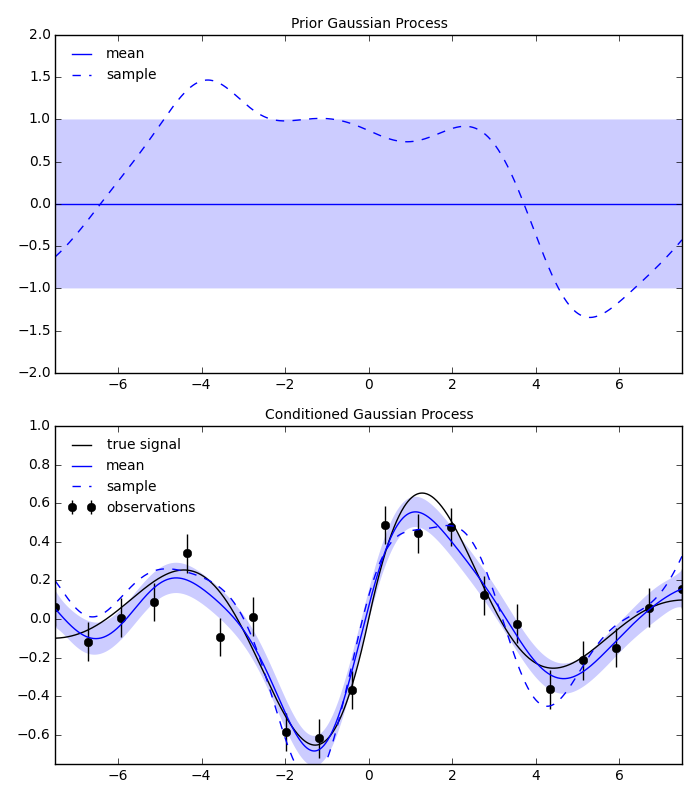
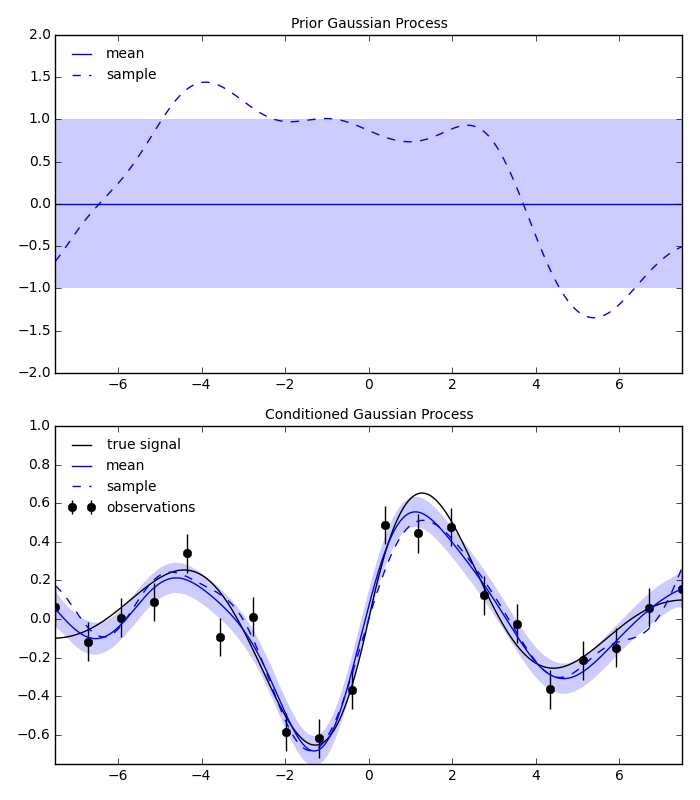
cleaned up gpr demo

diff --git a/docs/scripts/gpr.a.py b/docs/scripts/gpr.a.py
@@ -3,27 +3,24 @@ import matplotlib.pyplot as plt
 import rbf
 np.random.seed(1)
 
-n = 20
-# observation points
-y = np.linspace(-7.5,7.5,n)
-# interpolation points
-x = np.linspace(-7.5,7.5,1000)
-# true signal which we are trying to recover
-u_true = np.exp(-0.3*np.abs(x))*np.sin(x)  
-# observation uncertainty
-sigma = 0.1*np.ones(n) 
+y = np.linspace(-7.5,7.5,20) # observation points
+x = np.linspace(-7.5,7.5,500) # interpolation points
+u_true = np.exp(-0.3*np.abs(x))*np.sin(x)  # true signal
+sigma = 0.1*np.ones(20) # observation uncertainty
 # noisy observations of the signal
 d = np.exp(-0.3*np.abs(y))*np.sin(y) + np.random.normal(0.0,sigma) 
 # form a prior Gaussian process which has a squared exponential basis 
 # function (rbf.basis.ga), 0.0 for the mean, 1.0 for the standard 
 # deviation, and 2.0 for the characteristic length scale.
 gp = rbf.gpr.PriorGaussianProcess(rbf.basis.ga,(1.0,0.0,2.0))
-# draw a sample from the Gaussian process
-sample = gp.draw_sample(x[:,None])
-# find the mean and standard deviation at x
-mean,std = gp(x[:,None]) 
-# plot the mean, standard deviation, and sample from the Gaussian 
-# process
+sample = gp.draw_sample(x[:,None]) # generate random sample
+mean,std = gp(x[:,None]) # find the mean and standard dev. at x
+gp_cond = gp.condition(y[:,None],d,sigma=sigma) # condition with data
+sample_cond = gp_cond.draw_sample(x[:,None]) 
+mean_cond,std_cond = gp_cond(x[:,None])  
+
+## Plotting
+#####################################################################
 fig,axs = plt.subplots(2,1,figsize=(7,8))
 ax = axs[0]
 ax.tick_params(labelsize=10)
@@ -35,25 +32,14 @@ ax.plot(x,sample,'b--',label='sample')
 ax.set_xlim((-7.5,7.5))
 ax.set_ylim((-2.0,2.0))
 ax.legend(loc=2,frameon=False,fontsize=10)
-# Condition the Gaussian process with the observations
-gp = gp.condition(y[:,None],d,sigma=sigma)
-# uncomment the below line to make a new Gausisan process which is the
-# first derivative of *gp* 
-#gp = gp.differentiate((1,))
-# draw a sample from the conditioned Gaussian process
-sample = gp.draw_sample(x[:,None])
-# find the mean and standard deviation at x
-mean,std = gp(x[:,None]) 
-# plot the mean, standard deviation, and sample from the conditioned 
-# Gaussian process
 ax = axs[1]
 ax.tick_params(labelsize=10)
 ax.set_title('Conditioned Gaussian Process',fontsize=10)
 ax.errorbar(y,d,sigma,fmt='ko',capsize=0,label='observations')
 ax.plot(x,u_true,'k-',label='true signal')
-ax.plot(x,mean,'b-',label='mean')
-ax.plot(x,sample,'b--',label='sample')
-ax.fill_between(x,mean-std,mean+std,color='b',
+ax.plot(x,mean_cond,'b-',label='mean')
+ax.plot(x,sample_cond,'b--',label='sample')
+ax.fill_between(x,mean_cond-std_cond,mean_cond+std_cond,color='b',
                 alpha=0.2,edgecolor='none',label='standard deviation')
 ax.set_xlim((-7.5,7.5))
 ax.set_ylim((-0.75,1.0))
